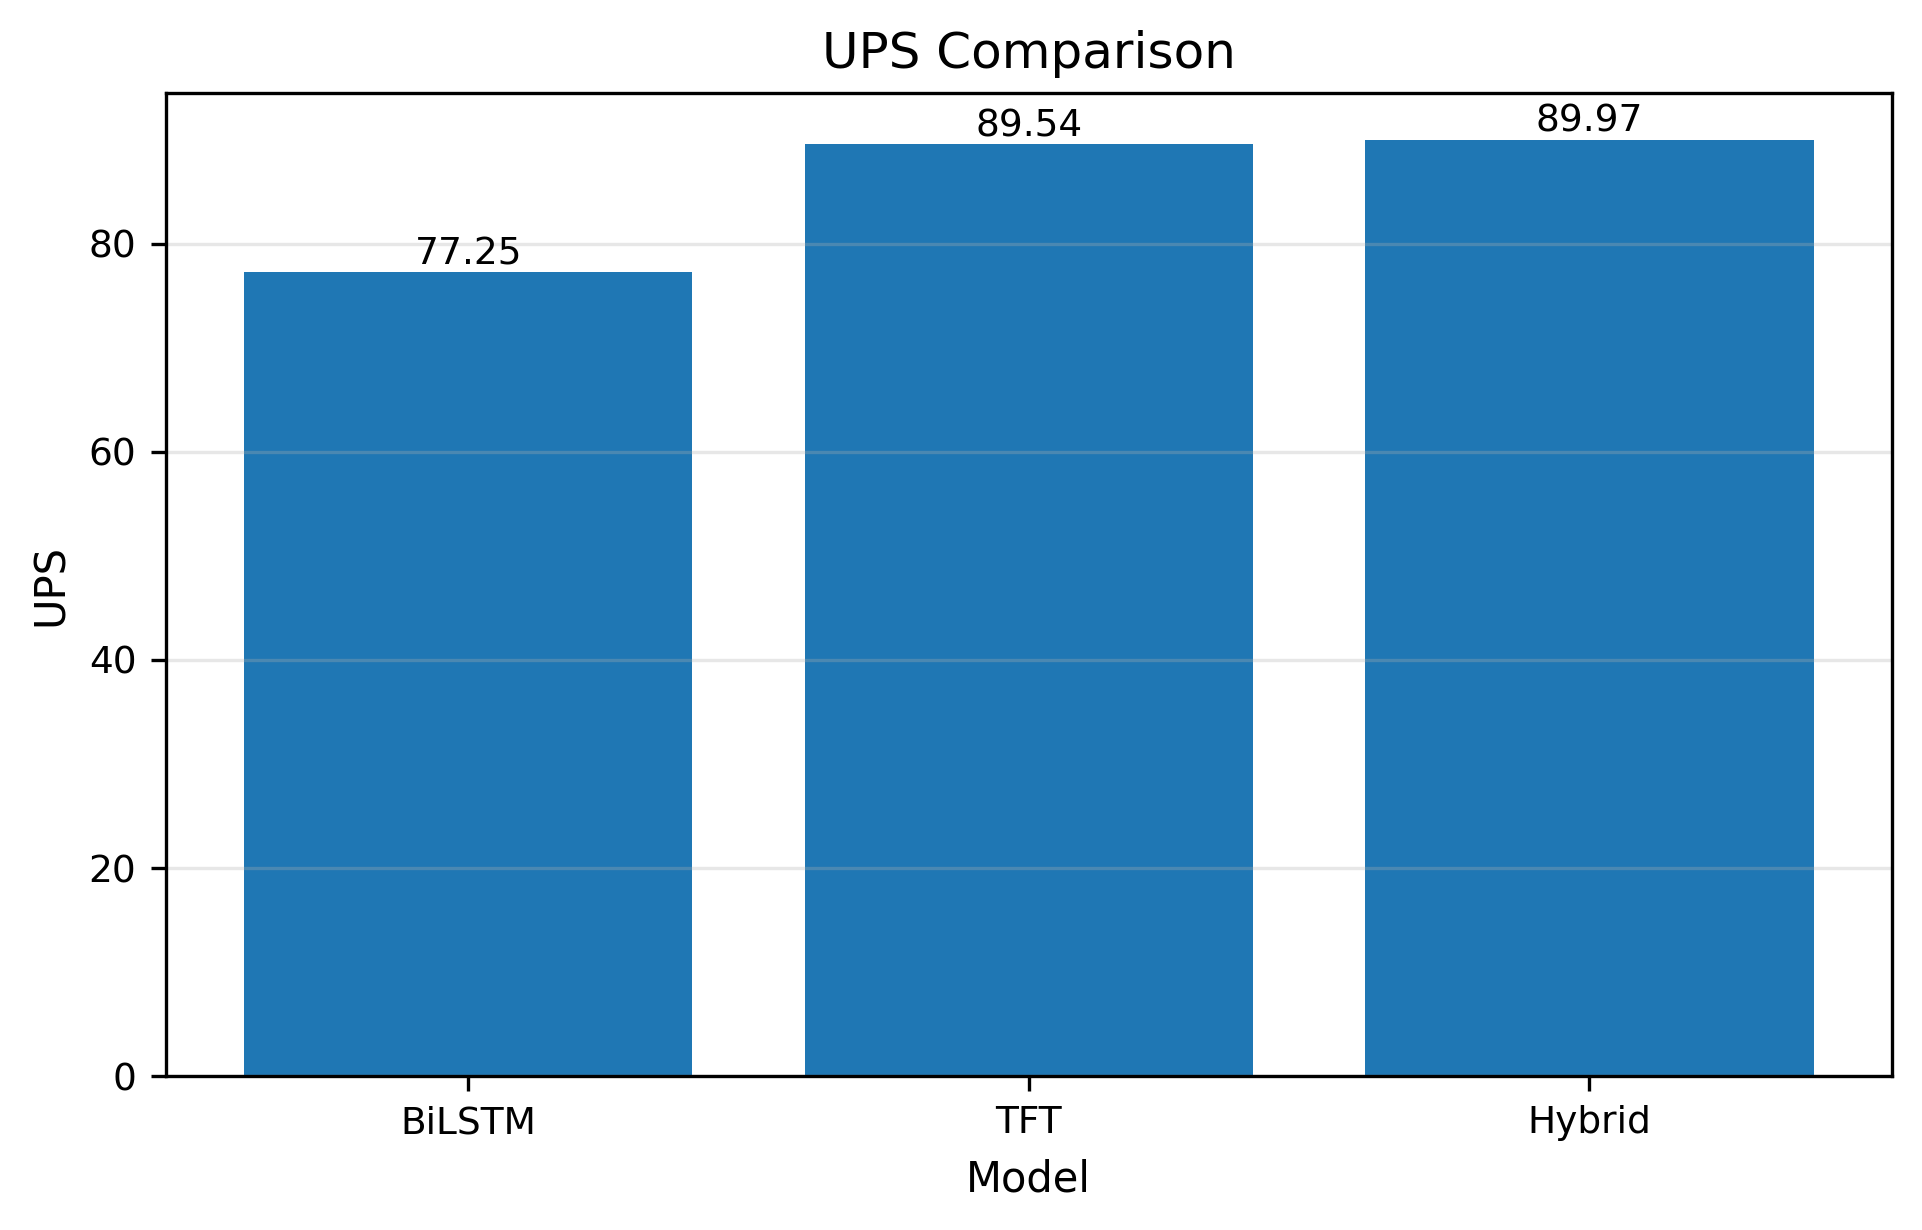
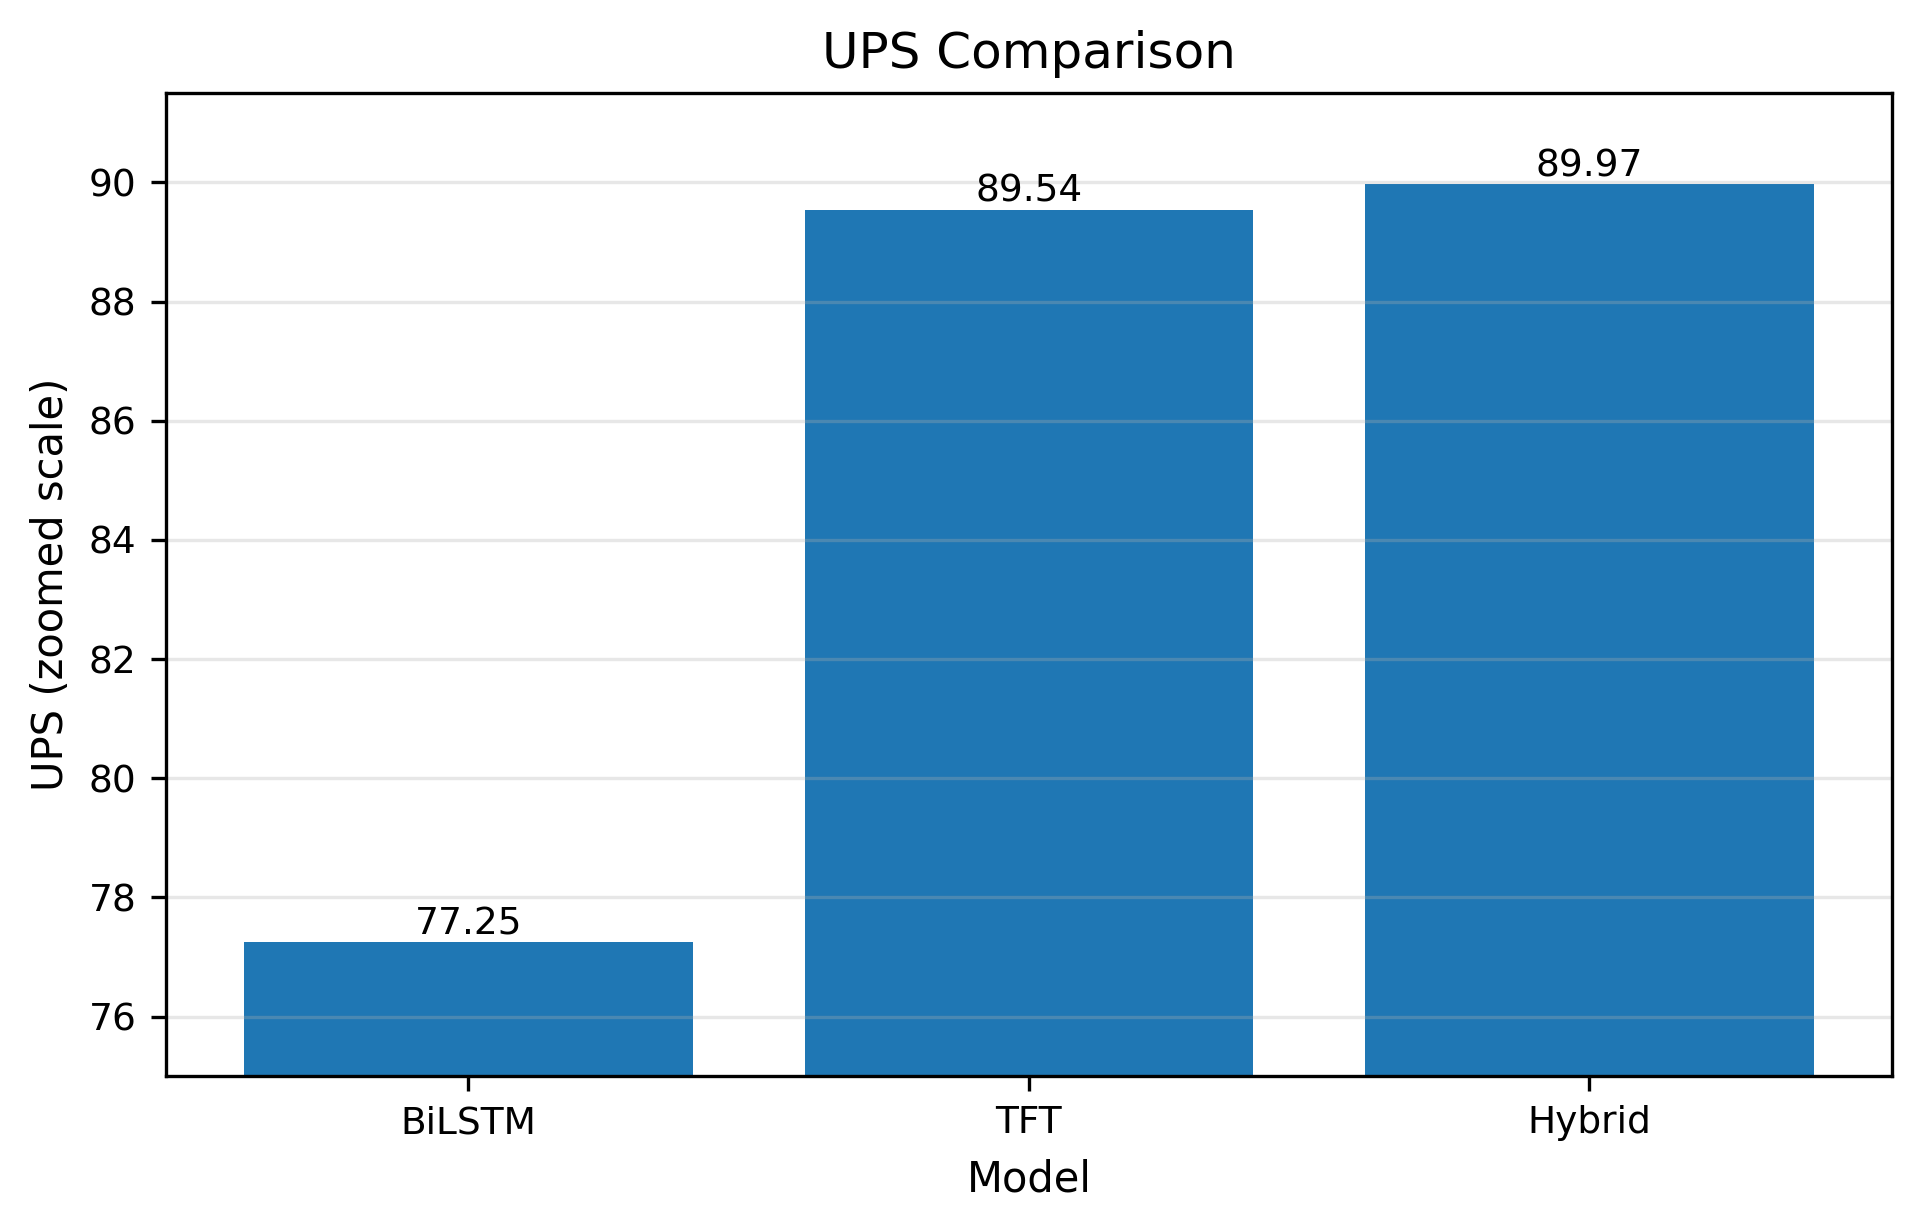
Zoom UPS comparison axis

diff --git a/publication_quality_plots.py b/publication_quality_plots.py
@@ -275,12 +275,15 @@ def _save_bar_chart(
     filename: str,
     output_dir: Path,
     keep_open: bool,
+    y_limits: tuple[float, float] | None = None,
 ) -> None:
     fig, ax = plt.subplots(figsize=(6.5, 4.2))
     bars = ax.bar(models, values)
     ax.set_title(title)
     ax.set_xlabel("Model")
     ax.set_ylabel(ylabel)
+    if y_limits is not None:
+        ax.set_ylim(*y_limits)
     ax.grid(True, axis="y", alpha=0.3)
     for bar, value in zip(bars, values):
         ax.text(
@@ -393,11 +396,12 @@ def main() -> None:
     _save_bar_chart(
         models=["BiLSTM", "TFT", "Hybrid"],
         values=[summary_metrics[name]["UPS"] for name in ("BiLSTM", "TFT", "Hybrid")],
-        ylabel="UPS",
+        ylabel="UPS (zoomed scale)",
         title="UPS Comparison",
         filename="ups.png",
         output_dir=output_dir,
         keep_open=keep_open,
+        y_limits=(75, 91.5),
     )
     print("Saved ups.png", flush=True)
     _save_heatmap(raw_df, output_dir, keep_open)
